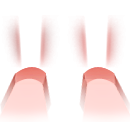
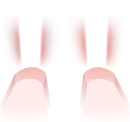
updated with markings

Changed region(s): [[0.6154, 0.541, 0.9846, 0.8115], [0.0308, 0.541, 0.4, 0.8115]]

diff --git a/web/bundles/lovethatfit/site/js/user_registration_step_four.js b/web/bundles/lovethatfit/site/js/user_registration_step_four.js
@@ -9,7 +9,7 @@ set_markings();
 
 function set_markings(){
 user_height = user_height * 8 / 4 * 3;
-user_back = user_back * 8 / 4 * 3;
+user_back = 22 * 8 / 4 * 3;
   //var left_hand
   //alert(user_back);
   var hands_inside = 10;
@@ -21,7 +21,7 @@ user_back = user_back * 8 / 4 * 3;
   $("#right_hand").css({marginLeft: hands_inside / 2});
     
   $("#adj_belt_hldr").css({position: 'absolute', top: user_height / 2.2 - 15, height: $("#bottom_adj_marks").height() + 30});
-  $("#bottom_adj_marks").css({top: 15});
+  //$("#bottom_adj_marks").css({top: 15});
   
 }
  
@@ -143,25 +143,39 @@ function call_settings(responseText, statusText, xhr, $form){
     
     //--Gragable Top--//
     $("#top_adj_marks").draggable({handle: "#top_moveable", axis: "y", containment: "parent",
+    create: function() {
+        var prod_top_pos = $("#top_adj_marks").css("top");
+        $("#measurement_shoulder_height").attr('value', prod_top_pos);
+    },
     start: function() {
         //$("#dummy_mark").addClass("put_me_top");
     },
     drag: function() {
+        prod_top_pos = $("#top_adj_marks").css("top");
+        $("#measurement_shoulder_height").attr('value', prod_top_pos);
     },
     stop: function() {
-        //$("#dummy_mark").removeClass("put_me_top");
+        prod_top_pos = $("#top_adj_marks").css("top");
+        $("#measurement_shoulder_height").attr('value', prod_top_pos);
     }
     });
     
     //--Gragable Bottom--//
     $("#bottom_adj_marks").draggable({handle: "#bottom_moveable", axis: "y", containment: "parent",
+    create: function() {
+       prod_bottom_pos = $("#bottom_adj_marks").css("top");
+       $("#measurement_waist_height").attr('value', prod_bottom_pos);
+    },
     start: function() {
         //$("#dummy_mark").addClass("put_me_top");
     },
     drag: function() {
+       prod_bottom_pos = $("#bottom_adj_marks").css("top");
+       $("#measurement_waist_height").attr('value', prod_bottom_pos);
     },
     stop: function() {
-        //$("#dummy_mark").removeClass("put_me_top");
+       prod_bottom_pos = $("#bottom_adj_marks").css("top");
+       $("#measurement_waist_height").attr('value', prod_bottom_pos);
     }
     });
     
@@ -189,9 +203,10 @@ function post_content_of_canvas(){
 }
 
 function go_to_index(){
-    
+    $("#frmUserMeasurement").submit();    
     window.location = document.getElementById("hdn_inner_site_index_url").value;
-        //window.location = "../inner_site/index";
+
+     //window.location = "../inner_site/index";
     }
     
 function next_button_click()

diff --git a/web/bundles/lovethatfit/site/css/main.css b/web/bundles/lovethatfit/site/css/main.css
@@ -1874,8 +1874,8 @@ padding:4px 10px;
     position: absolute;
     width:100%;
     height:6px;
-    background:#ffcc00;
     cursor:row-resize;
+    top:16px;
 }
 #left_hand {
     width:97px;
@@ -1911,8 +1911,8 @@ padding:4px 10px;
     position: absolute;
     width:100%;
     height:6px;
-    background:#ffcc00;
     cursor:row-resize;
+    top:2px;
 }
 
 #lages_marks {
